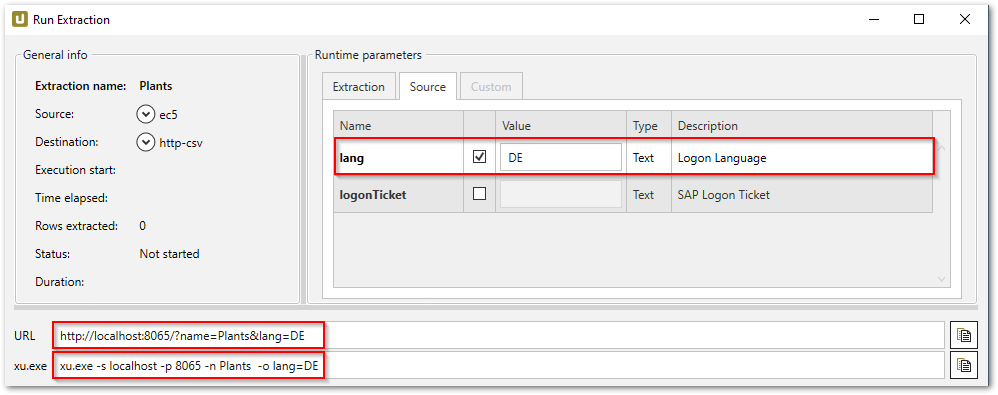
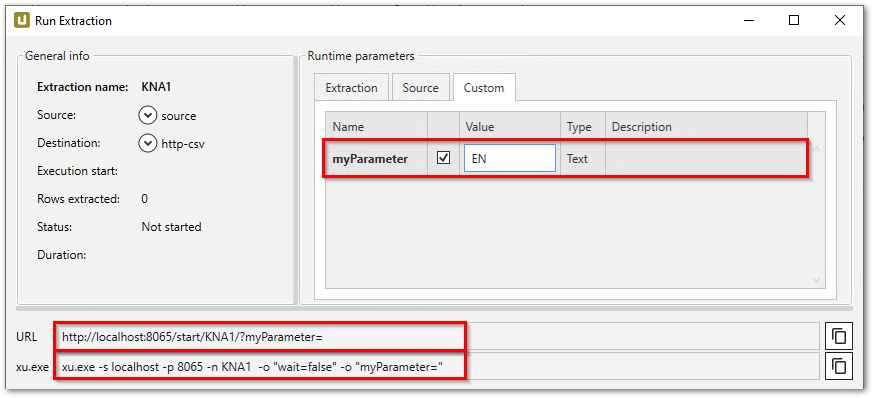
small correction

diff --git a/includes/parameters/extraction-parameters.md b/includes/parameters/extraction-parameters.md
@@ -74,7 +74,7 @@ logonTicket | Changes the ticket issuer of the [SAP logon ticket](../sap-connect
 	- Extraction URL before changing the parameter:<br>
 	`http://sherri.theobald.local:8065/start/KNA1/`
 	- Extraction URL after editing the parameter **lang** (language setting for the SAP source system):<br>
-	`http://sherri.theobald.local:8065/start/KNA1/&lang=DE` 
+	`http://sherri.theobald.local:8065/start/KNA1/?lang=DE` 
 
 
 ### Custom
@@ -90,7 +90,7 @@ Check the checkbox and enter a new value to set the user defined parameter.
 	- Extraction URL before changing the parameter:<br>
 	`http://sherri.theobald.local:8065/start/KNA1/`
 	- Extraction URL after editing the parameter **myParameter** (name of a runtime parameter):<br>
-	`http://sherri.theobald.local:8065/start/KNA1/&myParameter=EN`  
+	`http://sherri.theobald.local:8065/start/KNA1/?myParameter=EN`  
 
 ****
 #### Related Links:
